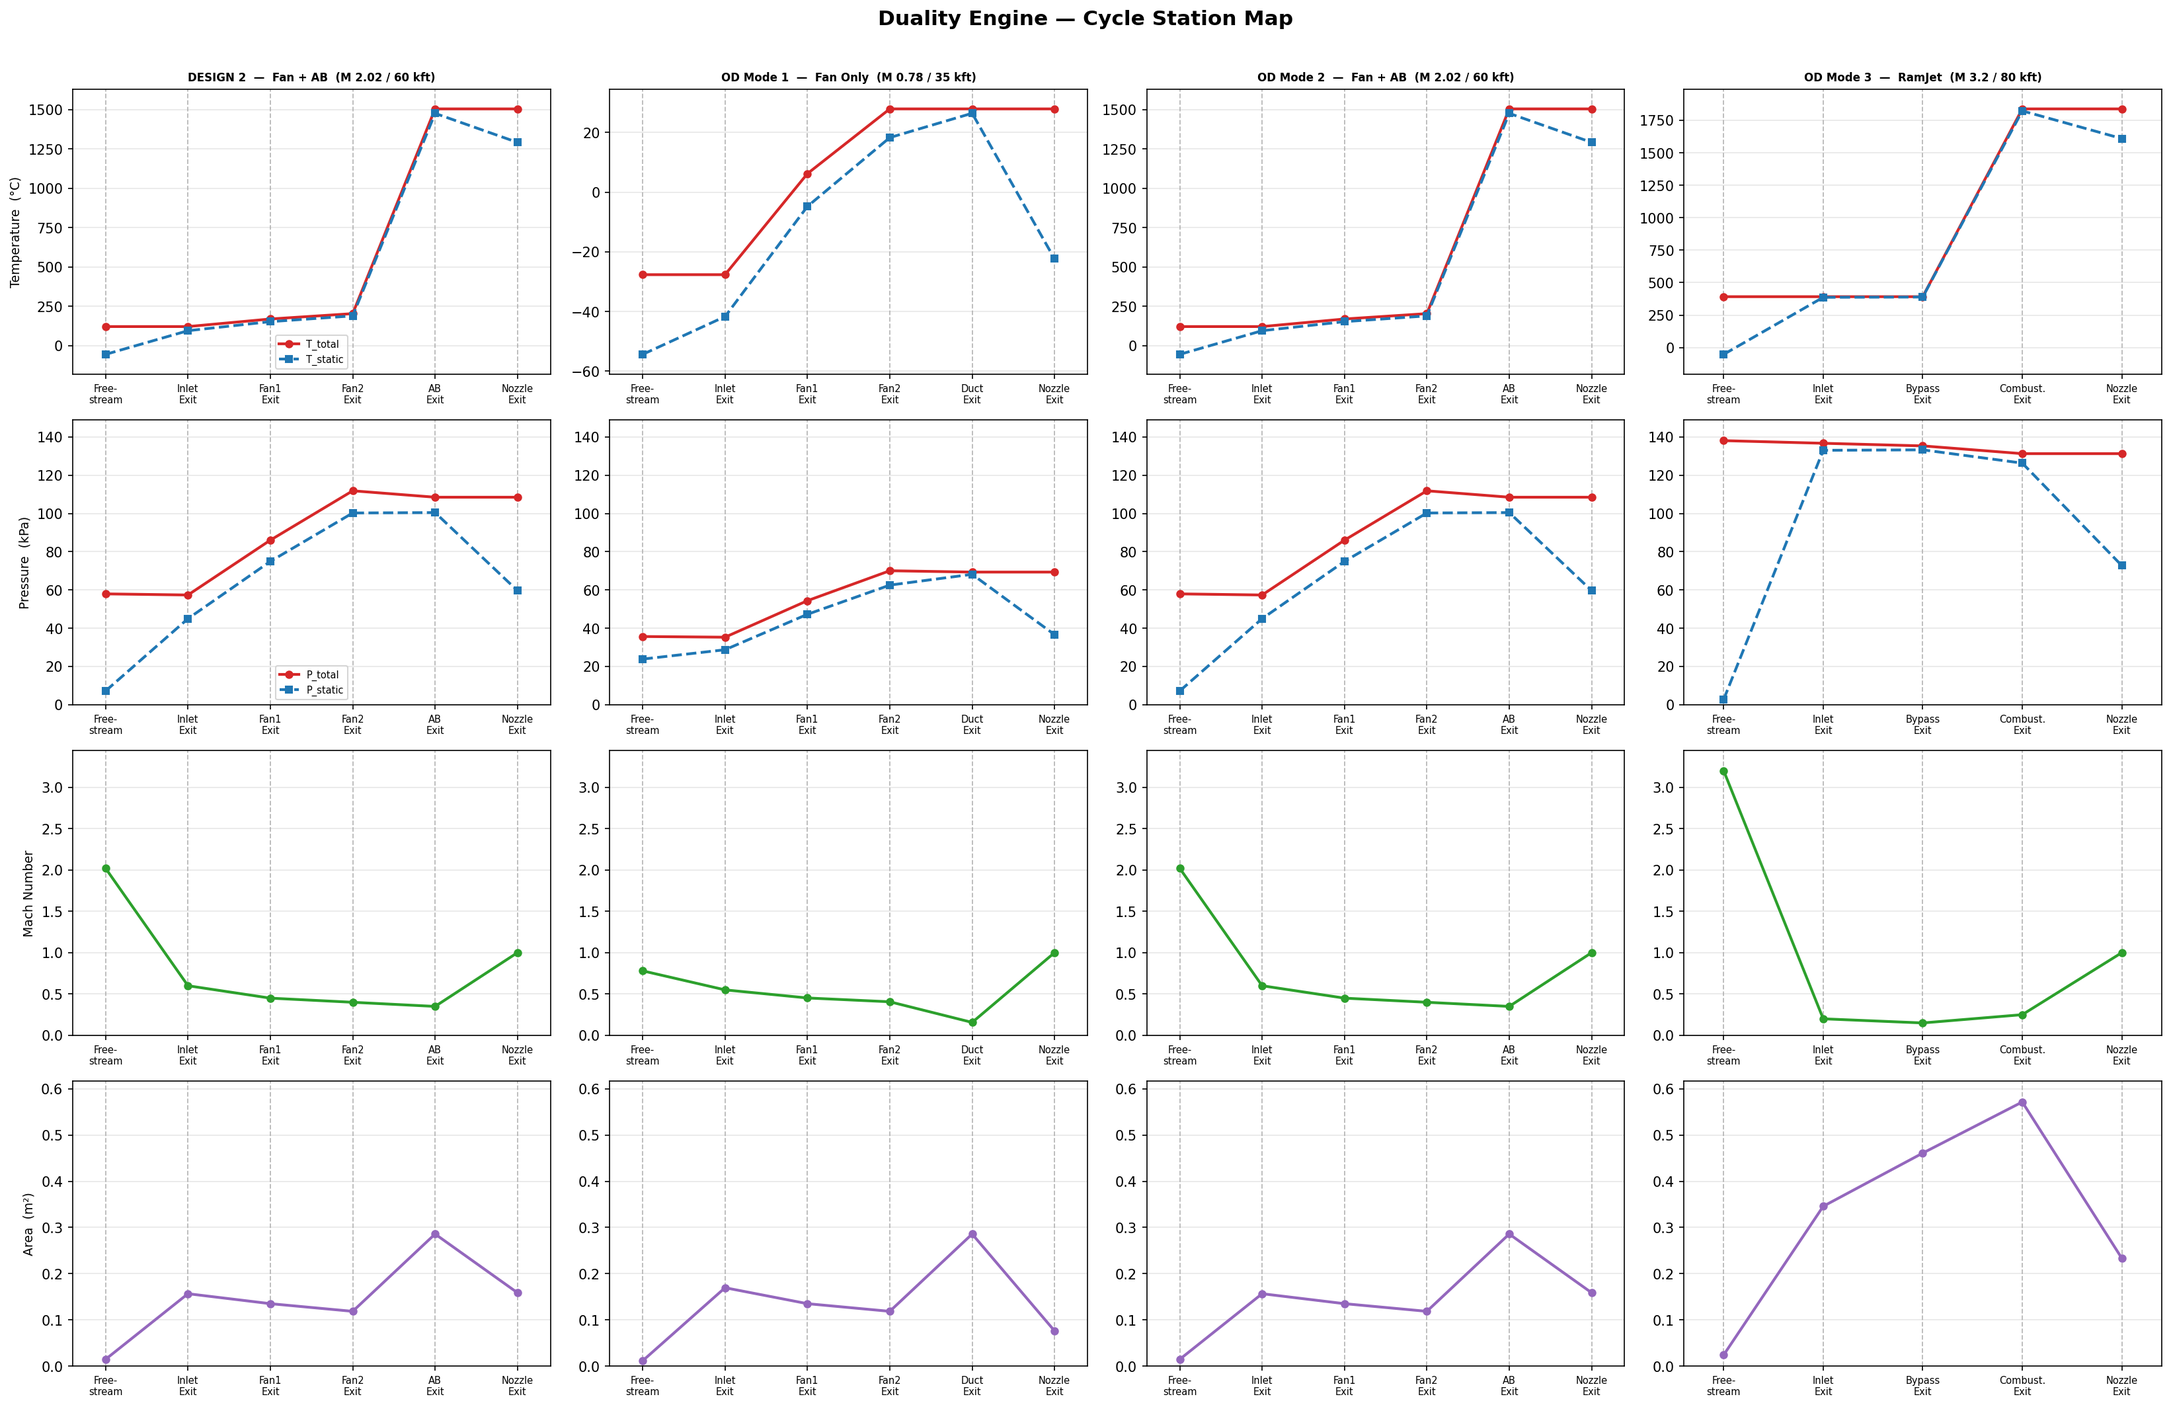
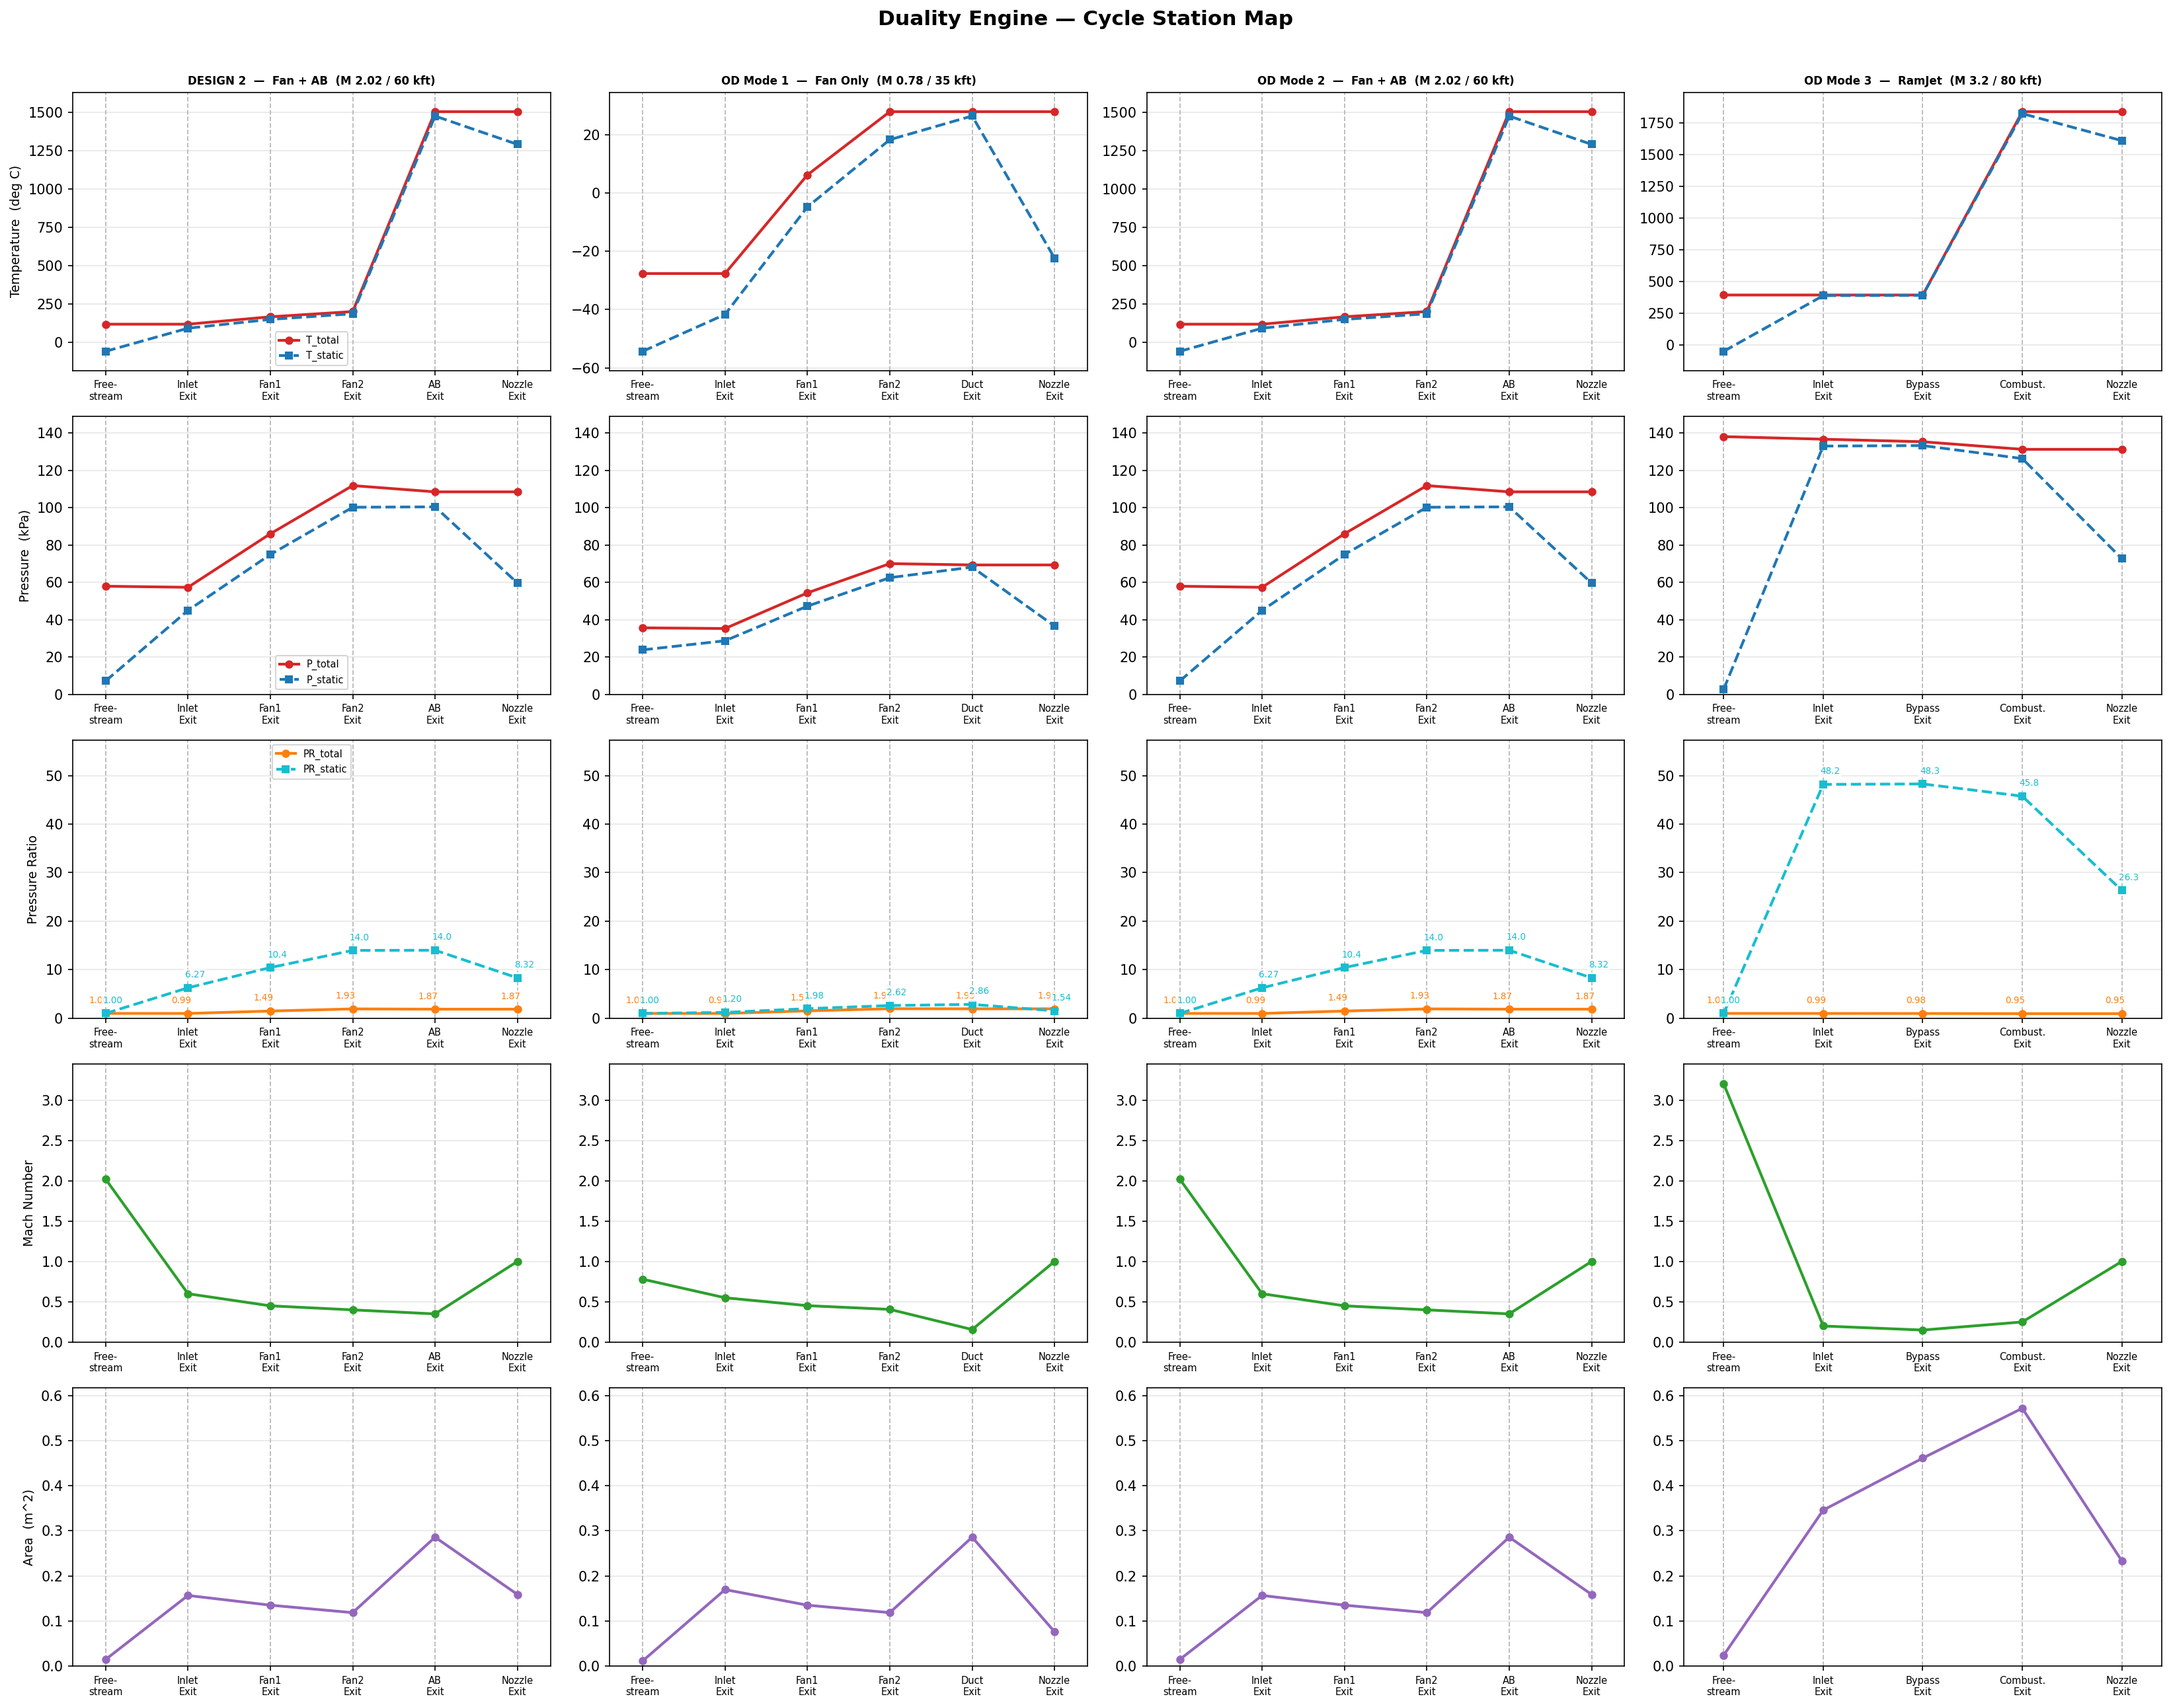
fixed plotting cuntions

diff --git a/example_cycles/duality.py b/example_cycles/duality.py
@@ -816,6 +816,10 @@ def plot_cycle_map(prob):
         (0.,   5.),      # Area (m²):        0 to 5 m² (covers large engine flow areas)
     ]
 
+    ROW_LABELS = ['Temperature  (deg C)', 'Pressure  (kPa)', 'Pressure Ratio',
+                  'Mach Number', 'Area  (m^2)']
+    PHYS.insert(2, (0., 200.))  # cumulative pressure ratio relative to freestream pressure
+
     # Temperature y-axis scaling strategy:
     # T_PER_COLUMN=True → each column (mode) gets its own T y-axis range.
     # This is because fan-only modes (Tmax ~600 K) and combustion modes (Tmax ~2100 K)
@@ -855,10 +859,24 @@ def plot_cycle_map(prob):
             MN.append(_get('stat:MN'))                    # Mach number        (dimensionless)
             A.append( _get('stat:area', units='m**2'))    # cross-section area (m²)
 
-        # Store as numpy arrays for efficient masking / ylim computation
-        all_data[pt] = dict(Tt=np.array(Tt), Ts=np.array(Ts),
-                            Pt=np.array(Pt), Ps=np.array(Ps),
-                            MN=np.array(MN), A=np.array(A))
+        # Store as numpy arrays for efficient masking / ylim computation.
+        Tt = np.array(Tt)
+        Ts = np.array(Ts)
+        Pt = np.array(Pt)
+        Ps = np.array(Ps)
+        MN = np.array(MN)
+        A = np.array(A)
+
+        def _relative_to_freestream(values):
+            ref = values[0]
+            if not np.isfinite(ref) or ref <= 0.0:
+                return np.full_like(values, np.nan, dtype=float)
+            return values / ref
+
+        all_data[pt] = dict(Tt=Tt, Ts=Ts, Pt=Pt, Ps=Ps,
+                            PRt=_relative_to_freestream(Pt),
+                            PRs=_relative_to_freestream(Ps),
+                            MN=MN, A=A)
 
     # -------------------------------------------------------------------------
     # COMPUTE Y-AXIS LIMITS (with 8% padding so lines don't touch the border)
@@ -883,7 +901,7 @@ def plot_cycle_map(prob):
     # Global ylims for P, MN, Area (rows 1–3): shared across all 4 columns
     # so that cross-mode comparisons are meaningful.
     global_ylims = [None]   # row 0 (T) will be per-column — placeholder here
-    for (lo, hi), keys in zip(PHYS[1:], [('Pt', 'Ps'), ('MN',), ('A',)]):
+    for (lo, hi), keys in zip(PHYS[1:], [('Pt', 'Ps'), ('PRt', 'PRs'), ('MN',), ('A',)]):
         # Gather all values for this quantity from all modes
         vals = _valid([all_data[pt][k] for pt in MODES for k in keys], lo, hi)
         global_ylims.append(_bounds(vals, lo, hi))
@@ -898,7 +916,7 @@ def plot_cycle_map(prob):
     # -------------------------------------------------------------------------
     # SECOND PASS: draw the 4×4 subplot grid
     # -------------------------------------------------------------------------
-    fig, axes = plt.subplots(4, 4, figsize=(22, 14))
+    fig, axes = plt.subplots(5, 4, figsize=(22, 17))
     fig.suptitle('Duality Engine — Cycle Station Map', fontsize=15, fontweight='bold', y=1.01)
 
     # ROW_KEYS: each row specifies which data keys to plot, display labels, and colours.
@@ -908,8 +926,9 @@ def plot_cycle_map(prob):
     ROW_KEYS = [
         ('Tt', 'Ts', 'T_total', 'T_static', '#d62728', '#1f77b4'),  # row 0: Temperature
         ('Pt', 'Ps', 'P_total', 'P_static', '#d62728', '#1f77b4'),  # row 1: Pressure
-        ('MN', None, 'Mach',    None,        '#2ca02c', None),       # row 2: Mach number
-        ('A',  None, 'Area',    None,        '#9467bd', None),       # row 3: Area
+        ('PRt', 'PRs', 'PR_total', 'PR_static', '#ff7f0e', '#17becf'),  # row 2: Pressure ratio
+        ('MN', None, 'Mach',    None,        '#2ca02c', None),       # row 3: Mach number
+        ('A',  None, 'Area',    None,        '#9467bd', None),       # row 4: Area
     ]
 
     for col, (pt, cfg) in enumerate(MODES.items()):
@@ -926,6 +945,9 @@ def plot_cycle_map(prob):
                 ylim = col_T_ylims[pt]   # per-column for temperature
             else:
                 ylim = global_ylims[row] # global for P, MN, area
+            if row == 2:
+                ymin, ymax = ylim
+                ylim = (ymin, ymax + 0.10 * (ymax - ymin or 1.0))
 
             def _mask(y, _lo=lo, _hi=hi):
                 """
@@ -942,13 +964,32 @@ def plot_cycle_map(prob):
                 ax.axvline(x, color='#bbbbbb', linestyle='--', linewidth=0.9, zorder=1)
 
             # Plot total quantity (solid line with circle markers)
-            ax.plot(xs, _mask(d[k_tot]), color=c_tot, marker='o', linewidth=2,
+            y_tot = _mask(d[k_tot])
+            ax.plot(xs, y_tot, color=c_tot, marker='o', linewidth=2,
                     markersize=5, label=lbl_tot, zorder=3)
 
             # Plot static quantity if it exists (dashed line with square markers)
             if k_stat is not None:
-                ax.plot(xs, _mask(d[k_stat]), color=c_stat, marker='s', linewidth=2,
+                y_stat = _mask(d[k_stat])
+                ax.plot(xs, y_stat, color=c_stat, marker='s', linewidth=2,
                         markersize=5, linestyle='--', label=lbl_stat, zorder=3)
+
+            if row == 2:
+                def _label_pr(y, color, x_offset=0):
+                    for x, val in zip(xs, y):
+                        if not np.isfinite(val):
+                            continue
+                        label = f'{val:.2f}' if abs(val) < 10.0 else f'{val:.1f}'
+                        ax.annotate(label, (x, val), xytext=(x_offset, 6),
+                                    textcoords='offset points', ha='center',
+                                    va='bottom', fontsize=6.5, color=color,
+                                    bbox=dict(boxstyle='round,pad=0.15',
+                                              fc='white', ec='none', alpha=0.75),
+                                    zorder=4)
+
+                _label_pr(y_tot, c_tot, x_offset=-5)
+                if k_stat is not None:
+                    _label_pr(y_stat, c_stat, x_offset=5)
 
             # Axis formatting
             ax.set_xticks(xs)
